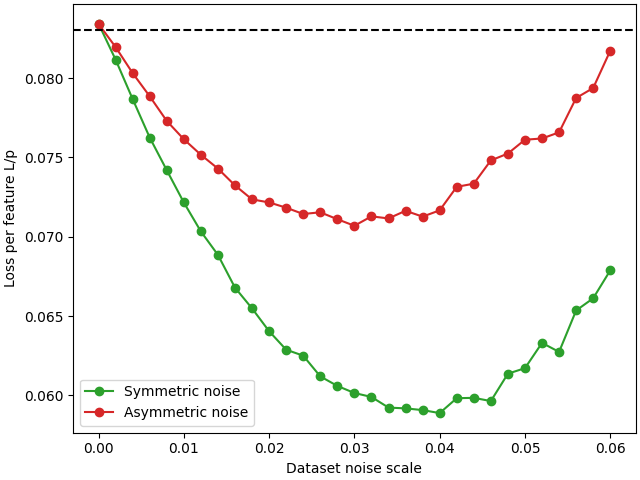
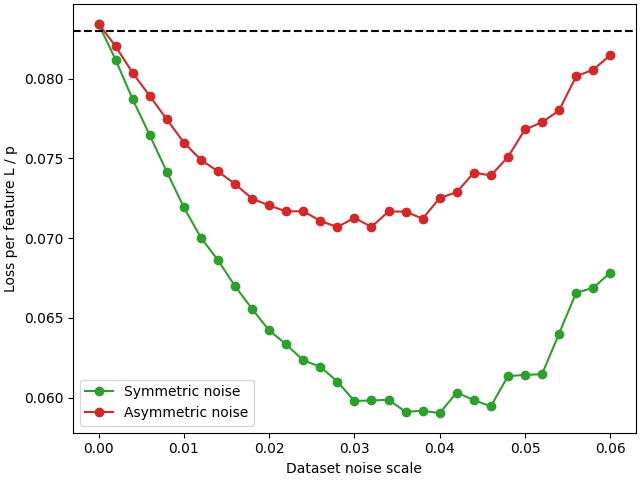
Code for Figures 3, 4, and A4

diff --git a/paper_code/nb4_bias_strength.py b/paper_code/nb4_bias_strength.py
@@ -1,0 +1,94 @@
+import colorsys
+
+import matplotlib.colors as mc
+import matplotlib.pyplot as plt
+import numpy as np
+from mlpinsoup import MLP, CleanDataset, evaluate, plot_loss_of_input_sparsity, train
+
+
+def make_dark_color(color):
+    """https://stackoverflow.com/questions/37765197/darken-or-lighten-a-color-in-matplotlib"""
+    hls = colorsys.rgb_to_hls(*mc.to_rgb(color))
+    darker_hls = (hls[0], 1 - (1 - hls[1]) * 1.5, hls[2])
+    return colorsys.hls_to_rgb(*darker_hls)
+
+
+bias_ps = ["0.001", "0.01", "0.1", "1"]
+bias_colors = ["C0", "C3", "C6", "C9"]
+bias_strengths = np.geomspace(0.002, 0.05, 100)
+dataset = CleanDataset(n_features=100, p=0)
+optimal_bias_strengths = {}
+
+fig, ax = plt.subplots(constrained_layout=True)
+
+for bias_p, bias_color in zip(bias_ps, bias_colors):
+    losses = []
+    dataset.set_p(float(bias_p))
+    print(f"Evaluating p={bias_p}")
+    for bias_strength in bias_strengths:
+        naive_model = MLP(n_features=100, d_mlp=50)
+        naive_model.handcode_naive_mlp(bias_strength=bias_strength)
+        loss = evaluate(naive_model, dataset)
+        losses.append(loss / float(bias_p))
+    ax.plot(bias_strengths, losses, label=f"p={bias_p}", color=bias_color)
+    opt_idx = np.argmin(losses)
+    ax.scatter(bias_strengths[opt_idx], losses[opt_idx], color=bias_color, marker="o")
+    if float(bias_p) >= 0.1:
+        ax.text(
+            bias_strengths[opt_idx],
+            losses[opt_idx],
+            f"Optimal bias: {bias_strengths[opt_idx]:.3f}  ",
+            ha="right",
+            va="top",
+        )
+    optimal_bias_strengths[bias_p] = bias_strengths[opt_idx]
+
+ax.legend()
+ax.set_xlabel("Bias strength")
+ax.set_ylabel("Adjusted loss L / p")
+ax.set_xscale("log")
+fig.savefig("nb4appendix_bias_strength.png")
+plt.show()
+
+
+plot_ps = np.geomspace(0.001, 1, 100)
+train_ps = ["0.001", "0.01", "0.1", "1"]
+tab20 = plt.get_cmap("tab20")
+colors = [tab20(2 * i + 1) for i in [0, 3, 6, 9]]
+linestyles = ["-", "-", "-", "-"]
+clean_dataset = CleanDataset(n_features=100, p=0)
+
+trained_models, trained_labels = [], []
+for str_p in train_ps:
+    p = float(str_p)
+    clean_dataset.set_p(p)
+    model = MLP(n_features=100, d_mlp=50)
+    frac_zero_samples = (1 - p) ** model.n_features
+    n_steps = int(10_000 / (1 - frac_zero_samples))
+    train(model, clean_dataset, batch_size=1024, steps=n_steps)
+    trained_models.append(model)
+    trained_labels.append("p=" + str_p)
+
+handcoded_models, handcoded_labels = [], []
+handcoded_colors = [tab20(2 * i) for i in [0, 3, 6, 9]]
+handcoded_linestyles = ["--", "--", "--", "--"]
+for bias_p in bias_ps:
+    naive_model = MLP(n_features=100, d_mlp=50)
+    naive_model.handcode_naive_mlp(bias_strength=optimal_bias_strengths[bias_p])
+    handcoded_models.append(naive_model)
+    handcoded_labels.append(None)  # f"Handcoded w/ bias={optimal_bias_strengths[bias_p]:.3f}")
+
+fig = plot_loss_of_input_sparsity(
+    trained_models + handcoded_models,
+    clean_dataset,
+    ps=plot_ps,
+    labels=trained_labels + handcoded_labels,
+    colors=colors + handcoded_colors,
+    linestyles=linestyles + handcoded_linestyles,
+    show_naive=False,
+)
+ax = fig.axes[0]
+ax.legend().remove()
+ax.legend(loc="upper left", ncols=2, title="Feature probability")
+fig.suptitle("Trained vs handcoded models on the clean dataset")
+fig.savefig("nb4_bias_strength.png")

diff --git a/paper_code/mlpinsoup.py b/paper_code/mlpinsoup.py
@@ -1,3 +1,4 @@
+import math
 import time
 from abc import abstractmethod
 from collections.abc import Iterable
@@ -185,13 +186,18 @@ def train(model: MLP, dataset: SparseDataset, batch_size: int = 1024, steps: int
     return losses
 
 
-def evaluate(model: Callable[[Float[Tensor, "batch n_features"]], Float[Tensor, "batch n_features"]], dataset: SparseDataset, batch_size: int | None = None) -> float:
-    batch_size = batch_size or int(1_000 / dataset.p)
+def evaluate(model: Callable[[Float[Tensor, "batch n_features"]], Float[Tensor, "batch n_features"]], dataset: SparseDataset, n_samples: int | None = None, batch_size: int = 100_000) -> float:
+    frac_zero_samples = (1 - dataset.p) ** dataset.n_features
+    n_samples = n_samples or int(1_000_000 / (1 - frac_zero_samples))
+    n_batches = math.ceil(n_samples / batch_size)
     with torch.no_grad():
-        inputs, labels = dataset.generate_batch(batch_size)
-        outputs = model(inputs)
-        loss = ((outputs - labels) ** 2).mean()
-    return loss.item()
+        losses = []
+        for _ in range(n_batches):
+            inputs, labels = dataset.generate_batch(batch_size)
+            outputs = model(inputs)
+            loss = ((outputs - labels) ** 2).mean()
+            losses.append(loss.item())
+    return np.mean(losses)
 
 
 def plot_loss_of_input_sparsity(
@@ -202,8 +208,10 @@ def plot_loss_of_input_sparsity(
     batch_size: int | None = None,
     labels: list[str] | None = None,
     colors: list[str] | None = None,
+    linestyles: list[str] | None = None,
     ax: plt.Axes | None = None,
     highlight_ps: list[float] | float | None = None,
+    show_naive: bool = True,
 ) -> plt.Figure:
     fig, ax = plt.subplots(constrained_layout=True) if ax is None else (ax.get_figure(), ax)
     models = [models] if isinstance(models, MLP) else models
@@ -224,19 +232,21 @@ def plot_loss_of_input_sparsity(
             losses = []
             for p in ps:
                 dataset.set_p(p)
-                loss = np.mean([evaluate(model, dataset, batch_size=batch_size) for _ in range(n_batches)])
+                loss = evaluate(model, dataset)
                 losses.append(loss)
         adj_losses = np.array(losses) / ps
         color = colors[i] if colors else None
+        ls = linestyles[i] if linestyles else None
         label = labels[i] if labels else None
-        ax.plot(ps, adj_losses, label=label, color=color)
+        ax.plot(ps, adj_losses, label=label, color=color, ls=ls)
         if highlight_ps is not None:
             with torch.no_grad():
                 p = highlight_ps[i]
                 dataset.set_p(p)
-                loss_at_p = np.mean([evaluate(model, dataset, batch_size=batch_size) for _ in range(n_batches)])
+                loss_at_p = evaluate(model, dataset)
                 highlight_adj_losses.append(loss_at_p / p)
-    ax.plot(ps, naive_adj_losses, color="k", ls="--")
+    if show_naive:
+        ax.plot(ps, naive_adj_losses, color="k", ls="--")
     if highlight_ps is not None:
         ax.plot(highlight_ps, highlight_adj_losses, color="k", marker="o", ls=":")
     ax.set_xscale("log")

diff --git a/paper_code/nb3_noise_optimum.py b/paper_code/nb3_noise_optimum.py
@@ -23,8 +23,8 @@ sym_losses = []
 asym_losses = []
 for i, (sym_noisy_model, sym_noisy_dataset, asym_noisy_model, asym_noisy_dataset) in tqdm(enumerate(zip(sym_models, sym_datasets, asym_models, asym_datasets, strict=True)), total=len(sym_models), desc="Evaluating"):
     print("Iteration", i + 1, "of", len(sym_models))
-    sym_loss = np.mean([evaluate(sym_noisy_model, sym_noisy_dataset, batch_size=1_000_000) for _ in range(100)])
-    asym_loss = np.mean([evaluate(asym_noisy_model, asym_noisy_dataset, batch_size=1_000_000) for _ in range(100)])
+    sym_loss = evaluate(sym_noisy_model, sym_noisy_dataset, n_samples=100_000_000)
+    asym_loss = evaluate(asym_noisy_model, asym_noisy_dataset, n_samples=10_000_000)
     sym_losses.append(sym_loss)
     asym_losses.append(asym_loss)
 
@@ -33,7 +33,7 @@ ax.plot(noise_levels, np.array(sym_losses) / 0.01, marker="o", label="Symmetric 
 ax.plot(noise_levels, np.array(asym_losses) / 0.01, marker="o", label="Asymmetric noise", color="C3")
 ax.axhline(0.083, color="k", ls="--")
 ax.set_xlabel("Dataset noise scale")
-ax.set_ylabel("Loss per feature L/p")
+ax.set_ylabel("Loss per feature L / p")
 ax.legend()
 fig.savefig("nb3_noise_optimum.png")
 plt.show()
